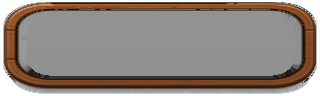
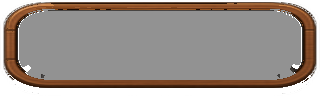
Flush Bauen chrome, cap rail cards at 40%, Ordnerposten place-only
Remove the silver bottom plate and dark face lip from cost-button
chrome so the face sits flush to the wood rim; align live-text wood
insets. Yield chips use icon + amount/s. Ordnerposten is back in the
build rail; Ordner hire stays on the left Personen rail only. Build
and upgrade cards max out at 40% of rail height.

diff --git a/game/src/main.ts b/game/src/main.ts
@@ -65,12 +65,6 @@ function buildingYieldCurrency(kind: BuildingKind): string {
   return UI_ICONS.currencySicherheit;
 }
 
-function buildingYieldUnit(kind: BuildingKind): string {
-  if (kind === "bier") return "Bier";
-  if (kind === "fanshop") return "Fanart.";
-  return "Sich.";
-}
-
 /** Tatsächliche Produktion / Sekunde (PROD_* × productionRate). */
 function buildingYieldPerSec(kind: BuildingKind, level: number): number {
   const base =
@@ -87,6 +81,7 @@ function formatHealRadius(level: number): string {
   return String(Math.round(stewardPostRadius(level) * 100));
 }
 
+/** Symbol + Betrag/s — Einheit steckt im Währungs-Icon. */
 function yieldChipHtml(
   kind: BuildingKind,
   perSec: number,
@@ -95,7 +90,7 @@ function yieldChipHtml(
   const sign = opts?.delta ? (perSec >= 0 ? "+" : "") : "";
   const id = opts?.id ? ` id="${opts.id}"` : "";
   const deltaCls = opts?.delta ? " yield-delta" : "";
-  return `<span class="yield-chip${deltaCls}"${id}><img src="${buildingYieldCurrency(kind)}" alt=""><span class="yield-amt">${sign}${formatYieldPerSec(perSec)} ${buildingYieldUnit(kind)}/s</span></span>`;
+  return `<span class="yield-chip${deltaCls}"${id}><img src="${buildingYieldCurrency(kind)}" alt=""><span class="yield-amt">${sign}${formatYieldPerSec(perSec)}/s</span></span>`;
 }
 
 function statChipHtml(
@@ -448,6 +443,19 @@ function renderMatchScreen(): void {
             </div>
             ${arCostBtnHtml({ kind: "bauen", full: "BAUEN", short: "BAU", amount: BUILD_COST.fanshop })}
           </button>
+          <button type="button" class="build-card" data-pending-build="ordner">
+            <div class="build-top">
+              <img class="build-preview" src="icons/stands/ordner-${tc}-1.png" alt="">
+              <div class="build-info">
+                <span class="build-name">Ordnerposten</span>
+                ${yieldChipHtml("ordner", buildingYieldPerSec("ordner", 1))}
+                ${statChipHtml("HP", String(ordnerPostMaxHp(1)))}
+                ${statChipHtml("Radius", `${formatHealRadius(1)}%`)}
+                ${statChipHtml("Heilung", `${stewardHealPerSec(1)}/s`)}
+              </div>
+            </div>
+            ${arCostBtnHtml({ kind: "bauen", full: "BAUEN", short: "BAU", amount: BUILD_COST.ordner })}
+          </button>
         </div>
         <div class="build-rows hidden" id="build-upgrade-rows">
           <div class="upgrade-panel" id="upgrade-panel">
@@ -457,7 +465,7 @@ function renderMatchScreen(): void {
                 <img id="upgrade-from-img" src="" alt="">
                 <span class="up-lv" id="upgrade-from-lv">Lv1</span>
                 <div class="up-stats" id="upgrade-from-stats">
-                  <span class="yield-chip" id="upgrade-from-yield"><img src="${UI_ICONS.currencyBier}" alt=""><span class="yield-amt">0.41 Bier/s</span></span>
+                  <span class="yield-chip" id="upgrade-from-yield"><img src="${UI_ICONS.currencyBier}" alt=""><span class="yield-amt">0.41/s</span></span>
                 </div>
               </div>
               <div class="up-arrow" aria-hidden="true">→</div>
@@ -465,7 +473,7 @@ function renderMatchScreen(): void {
                 <img id="upgrade-to-img" src="" alt="">
                 <span class="up-lv" id="upgrade-to-lv">Lv2</span>
                 <div class="up-stats" id="upgrade-to-stats">
-                  <span class="yield-chip yield-delta" id="upgrade-to-yield"><img src="${UI_ICONS.currencyBier}" alt=""><span class="yield-amt">+0.17 Bier/s</span></span>
+                  <span class="yield-chip yield-delta" id="upgrade-to-yield"><img src="${UI_ICONS.currencyBier}" alt=""><span class="yield-amt">+0.17/s</span></span>
                 </div>
               </div>
             </div>
@@ -476,15 +484,6 @@ function renderMatchScreen(): void {
               </span>
             </button>
           </div>
-          <button type="button" class="build-card" id="rail-hire-ordner">
-            <div class="build-top">
-              <img class="build-preview" src="${unitIconPath("ordner", tc, 1)}" alt="">
-              <div class="build-info">
-                <span class="build-name">Ordner anheuern</span>
-              </div>
-            </div>
-            ${arCostBtnHtml({ kind: "kaufen", full: "KAUFEN", short: "KAUF", amount: STEWARD_HIRE_GOLD })}
-          </button>
         </div>
         <button type="button" class="rail-close" id="build-rail-close">Schließen</button>
       </aside>
@@ -633,12 +632,6 @@ function renderMatchScreen(): void {
         upBtn.classList.toggle("cd", broke);
         if (costEl) costEl.textContent = String(cost);
       }
-      const hireBtn = app.querySelector<HTMLButtonElement>("#rail-hire-ordner")!;
-      const canHire = !!(slot && m.canHireSteward(slot));
-      hireBtn.classList.toggle("hidden", slot?.building !== "ordner");
-      hireBtn.disabled = !canHire;
-      hireBtn.classList.toggle("cd", !canHire);
-      buildUpgradeRows.classList.toggle("hire-open", slot?.building === "ordner");
     }
   };
 
@@ -861,15 +854,6 @@ function renderMatchScreen(): void {
       m.tryUpgrade();
     }
     closeBuildRail();
-    syncOverlay();
-  });
-  app.querySelector("#rail-hire-ordner")?.addEventListener("click", () => {
-    if (state.buildTarget) {
-      m.buildMenu = state.buildTarget;
-      m.selectedSlot = state.buildTarget;
-      m.tryHireSteward();
-      openBuildRail("upgrade", state.buildTarget);
-    }
     syncOverlay();
   });
   btnHire.addEventListener("click", () => {

diff --git a/game/src/style.css b/game/src/style.css
@@ -537,18 +537,21 @@ select {
   max-width: 100%;
   overflow: hidden;
   overflow-x: hidden;
+  justify-content: flex-start;
+  align-content: flex-start;
 }
 
-/* Build card: %-Abstände, Icon/Text/Button skalieren gemeinsam */
+/* Build card: %-Abstände; Anteil der Rail, nie über 40% Höhe */
 .match-shell.matchday .build-card {
   display: flex;
   flex-direction: column;
   gap: 4%;
-  flex: 1 1 0;
+  flex: 0 1 40%;
   min-height: 0;
   min-width: 0;
   width: 100%;
   max-width: 100%;
+  max-height: 40%;
   box-sizing: border-box;
   text-align: left;
   padding: var(--br-pad, 3%) calc(var(--br-pad, 3%) + 1%);
@@ -560,7 +563,7 @@ select {
     0 3px 0 rgba(60, 30, 10, 0.35);
   cursor: pointer;
   overflow: hidden;
-  container-type: size;
+  container-type: inline-size;
 }
 
 .match-shell.matchday .build-card .build-top {
@@ -607,7 +610,7 @@ select {
 .match-shell.matchday .build-info .build-name {
   font-family: var(--display);
   font-weight: 900;
-  font-size: clamp(0.65rem, 8cqh, 0.95rem);
+  font-size: clamp(0.65rem, 7cqw, 0.95rem);
   color: #1f140c;
   white-space: nowrap;
   overflow: hidden;
@@ -623,7 +626,7 @@ select {
   max-width: 100%;
   font-family: var(--display);
   font-weight: 800;
-  font-size: clamp(0.48rem, 5.5cqh, 0.72rem);
+  font-size: clamp(0.5rem, 5.5cqw, 0.75rem);
   color: #5c3a1a;
   line-height: 1.1;
   white-space: nowrap;
@@ -655,7 +658,7 @@ select {
   max-width: 100%;
   font-family: var(--display);
   font-weight: 800;
-  font-size: clamp(0.5rem, 5.5cqh, 0.72rem);
+  font-size: clamp(0.48rem, 5cqw, 0.7rem);
   color: #5c3a1a;
   line-height: 1.15;
   white-space: nowrap;
@@ -690,14 +693,14 @@ select {
  * Overlay: Holz-Innenkante + 2% (Breite L/R, Höhe T/B).
  */
 .match-shell.matchday .ar-cost-btn {
-  /* Face beginnt ~2% innerhalb der Holz-Innenkante; Text nochmals +2% */
-  --wood-x: 8.28%;
-  --wood-y-top: 15.62%;
+  /* Face bündig zur Holz-Innenkante; Live-Text +2% Abstand */
+  --wood-x: 5.62%;
+  --wood-y-top: 8.33%;
   --wood-y-bot: 20.83%;
   --inset: 2%;
   position: relative;
   display: block;
-  flex: 0 0 auto;
+  flex: 0 1 auto;
   width: 100%;
   max-width: 100%;
   height: auto;
@@ -713,12 +716,10 @@ select {
   background-position: center;
   background-size: 100% 100%;
   overflow: hidden;
-  filter: drop-shadow(0 3px 0 rgba(0, 0, 0, 0.28));
   box-sizing: border-box;
   cursor: inherit;
   font: inherit;
   color: #fff;
-  flex: 0 1 auto;
 }
 .match-shell.matchday button.ar-cost-btn {
   cursor: pointer;
@@ -807,15 +808,16 @@ select {
   opacity: 0.55;
 }
 
-/* Upgrade panel — %-Abstände, Ertrag unter Symbolen, kein Blurb */
+/* Upgrade panel — max. 40% Rail-Höhe, nie volle Höhe */
 .match-shell.matchday .upgrade-panel {
   display: flex;
   flex-direction: column;
   gap: 4%;
-  flex: 1 1 auto;
+  flex: 0 1 40%;
   min-height: 0;
   min-width: 0;
   max-width: 100%;
+  max-height: 40%;
   width: 100%;
   box-sizing: border-box;
   padding: var(--br-pad, 3%) calc(var(--br-pad, 3%) + 1%);
@@ -827,25 +829,12 @@ select {
     0 3px 0 rgba(60, 30, 10, 0.35);
   overflow: hidden;
   overflow-x: hidden;
-  container-type: size;
+  container-type: inline-size;
 }
 
 .match-shell.matchday #build-upgrade-rows {
   gap: var(--br-gap, 2.5%);
-}
-
-.match-shell.matchday #build-upgrade-rows > .build-card {
-  flex: 0 1 34%;
-  min-height: 0;
-  max-height: none;
-}
-
-.match-shell.matchday #build-upgrade-rows:not(.hire-open) > .build-card {
-  display: none;
-}
-
-.match-shell.matchday #build-upgrade-rows:not(.hire-open) .upgrade-panel {
-  flex: 1 1 auto;
+  justify-content: flex-start;
 }
 
 .match-shell.matchday .upgrade-title {
@@ -853,7 +842,7 @@ select {
   margin: 0;
   font-family: var(--display);
   font-weight: 900;
-  font-size: clamp(0.7rem, 7cqh, 1rem);
+  font-size: clamp(0.7rem, 7cqw, 1rem);
   color: #1f140c;
   white-space: nowrap;
   overflow: hidden;
@@ -898,19 +887,19 @@ select {
 .match-shell.matchday .up-stage .up-lv {
   font-family: var(--display);
   font-weight: 900;
-  font-size: clamp(0.5rem, 5.5cqh, 0.72rem);
+  font-size: clamp(0.5rem, 5.5cqw, 0.72rem);
   color: #1d4ed8;
   line-height: 1;
   flex: 0 0 auto;
 }
 
 .match-shell.matchday .up-stage .yield-chip {
-  font-size: clamp(0.5rem, 5.5cqh, 0.75rem);
+  font-size: clamp(0.5rem, 5.5cqw, 0.75rem);
   flex: 0 0 auto;
 }
 
 .match-shell.matchday .up-arrow {
-  font-size: clamp(0.85rem, 8cqh, 1.15rem);
+  font-size: clamp(0.85rem, 8cqw, 1.15rem);
   font-weight: 900;
   color: #3b2412;
   flex: 0 0 auto;

diff --git a/docs/mockups/personen-action-card/index.html b/docs/mockups/personen-action-card/index.html
@@ -131,9 +131,9 @@
    * Holz-Rims müssen zu btn-*-chrome.png passen (siehe Generator).
    */
   .cost-btn {
-    /* Face ~2% innerhalb Holz-Innenkante; Live-Text nochmals +2% */
-    --wood-x: 8.28%;
-    --wood-y-top: 15.62%;
+    /* Face bündig zur Holz-Innenkante; Live-Text +2% */
+    --wood-x: 5.62%;
+    --wood-y-top: 8.33%;
     --wood-y-bot: 20.83%;
     --inset: 2%;
     appearance: none;
